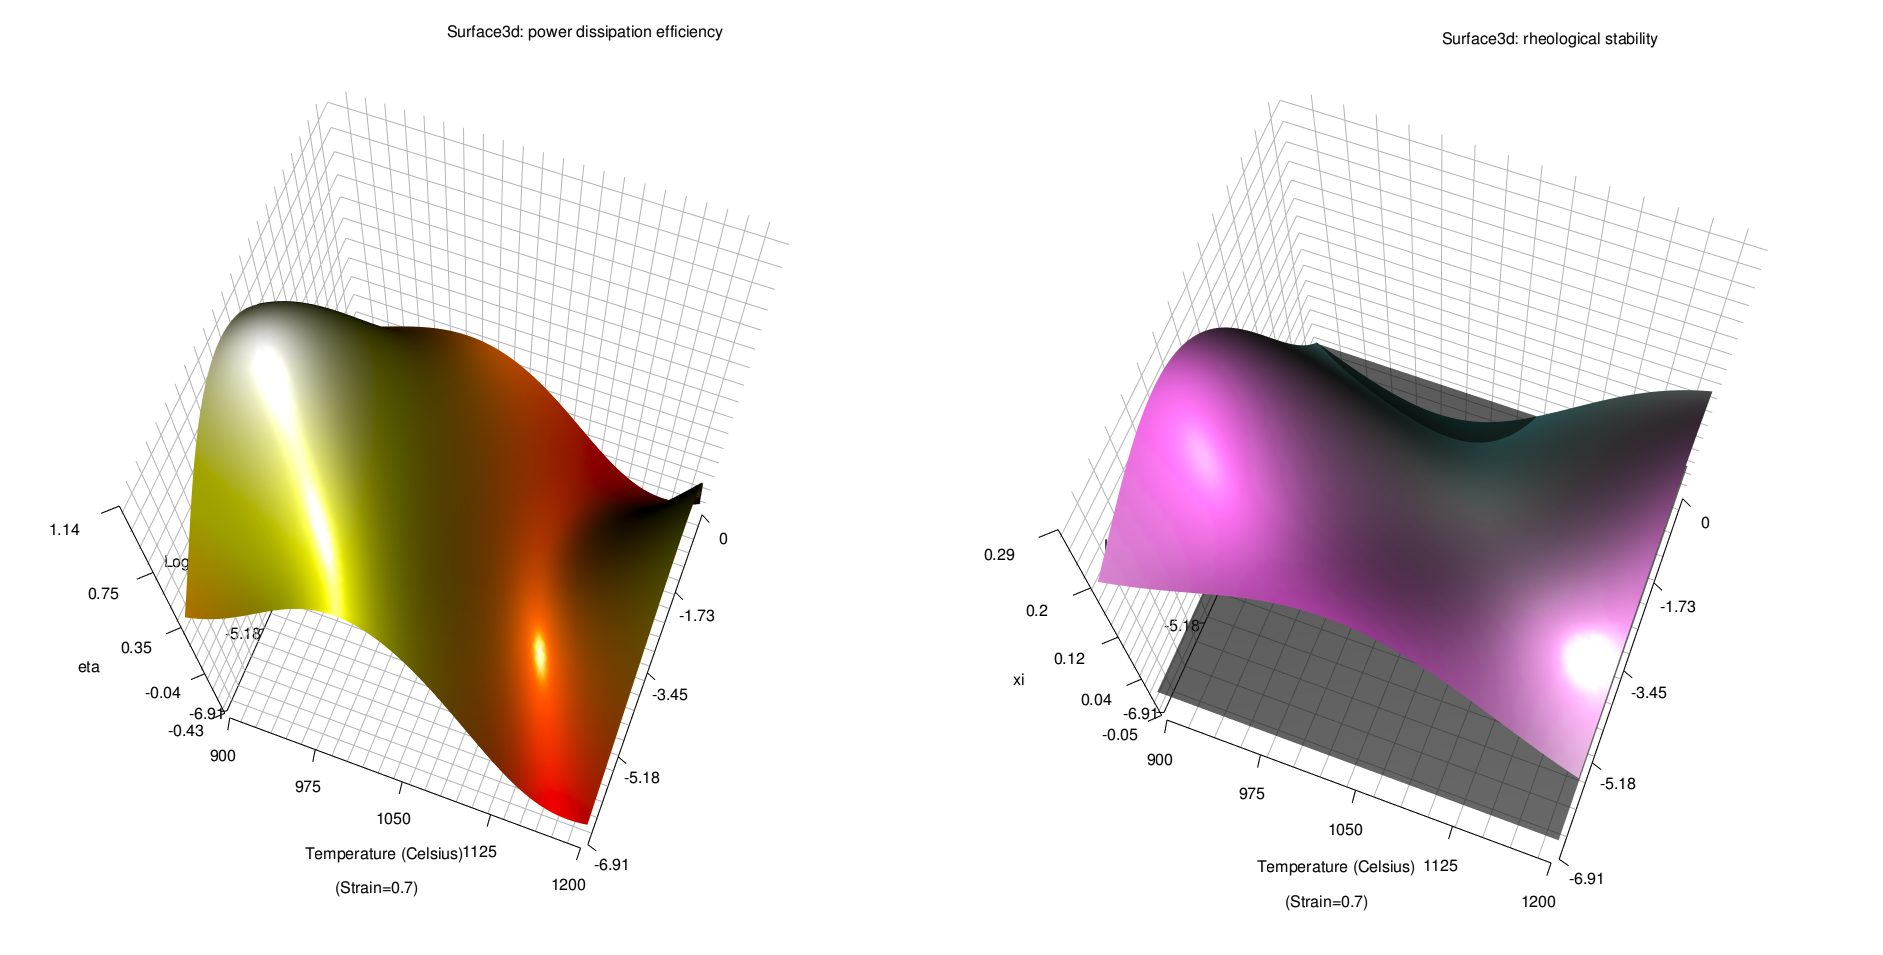
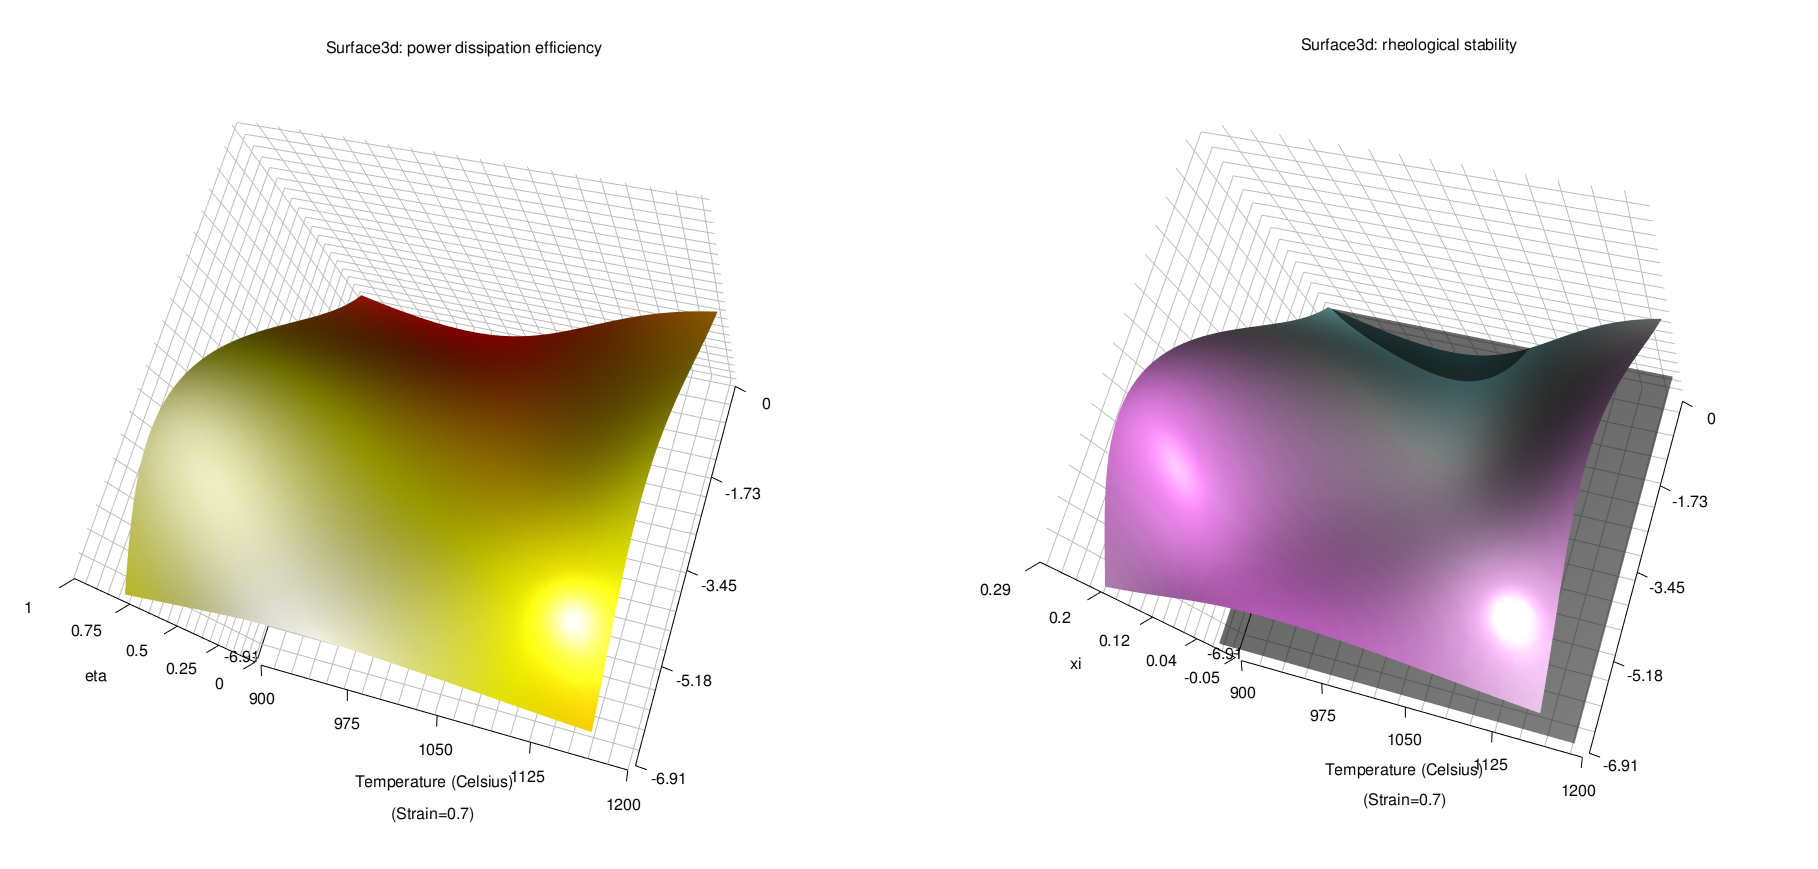
rebuild and vignettes update

diff --git a/README.md b/README.md
@@ -27,19 +27,11 @@ TPMplt is a tool-kit for building and visualizing the dynmaic materials model (D
 
 ## Workflow
 
-```raw_data```
-&nbsp;&nbsp;&nbsp;&nbsp;&nbsp;&nbsp;&nbsp;&nbsp;&nbsp;&nbsp;&darr;
-```vbt_data``` &rarr; ```SSplots()```
-&nbsp;&nbsp;&nbsp;&nbsp;&nbsp;&nbsp;&nbsp;&nbsp;&nbsp;&nbsp;&darr;
-```epsExtract()```
-&nbsp;&nbsp;&nbsp;&nbsp;&nbsp;&nbsp;&nbsp;&nbsp;&nbsp;&nbsp;&darr;
-```DMMprocess()```
-&nbsp;&nbsp;&nbsp;&nbsp;&nbsp;&nbsp;&nbsp;&nbsp;&nbsp;&nbsp;&darr;
-```SVRModel()``` &rarr; {```TPM2dplt()```,```TPM3dplt()```}
+![Workflow Overview](/vignettes/img/demo_figs1.png)
 
 ## Processing Map Preview
 
-![Preview of 2d processing map (update on CRAN soon)](/vignettes/img/demo_figs.png)
+![Preview of 2d processing map (update on CRAN soon)](/vignettes/img/demo_figs2.png)
 
 ## Contact
 
